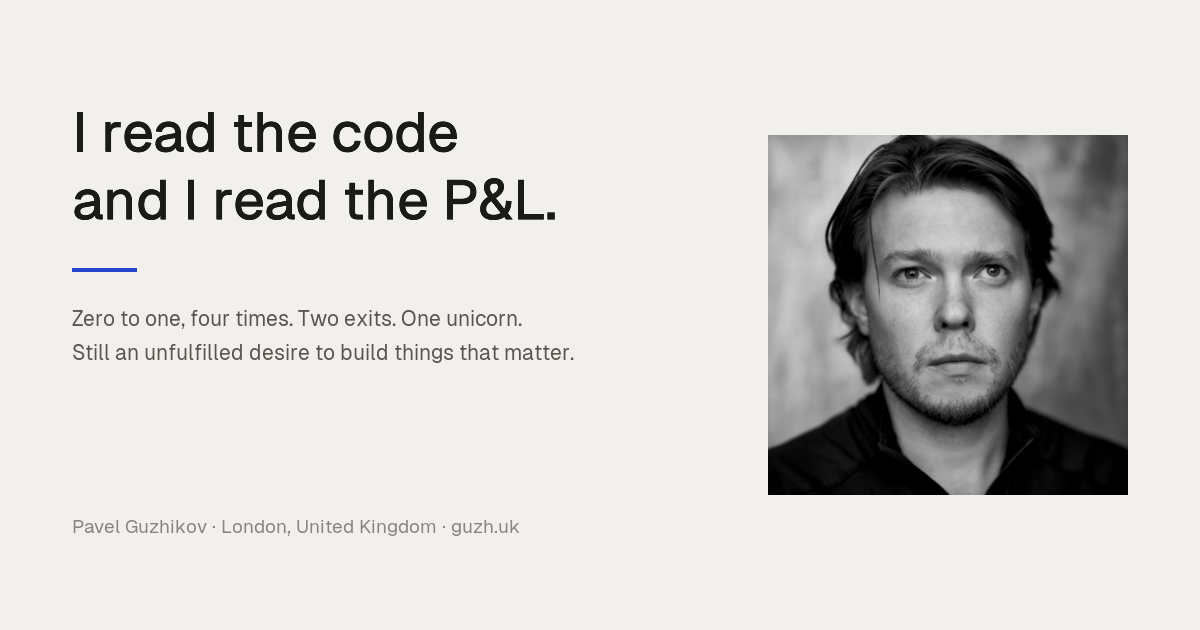
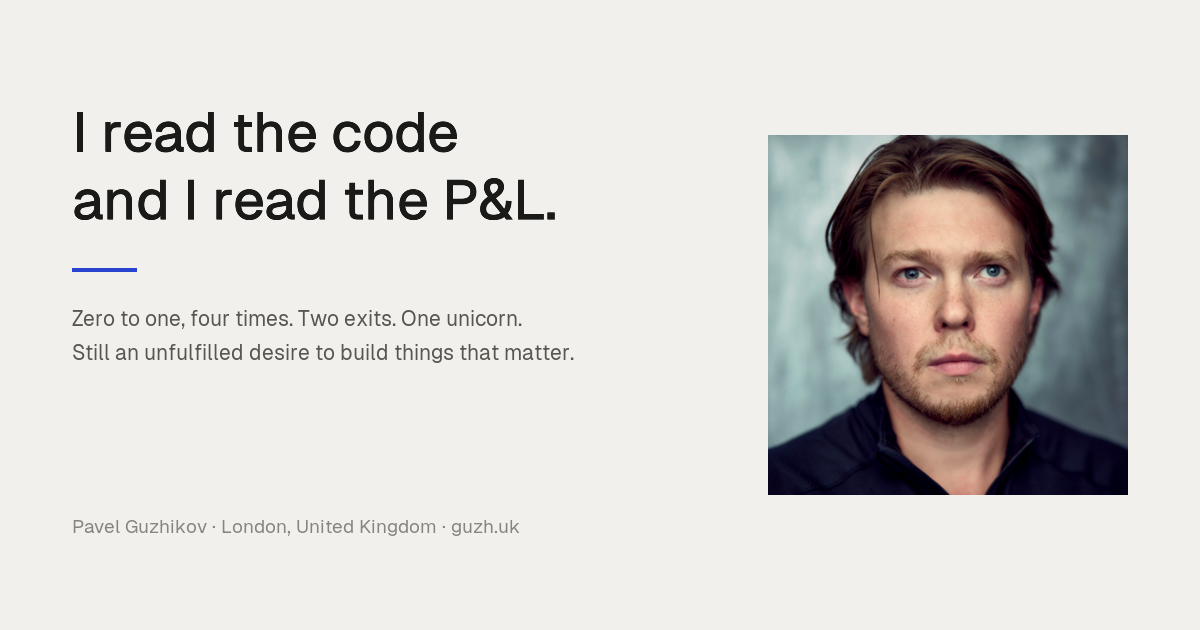
Warm portrait, and a second beat on the scoreboard line
Pavel settled the two open disagreements between the handoff README and the
design prototype, in the prototype's favour on the photo and past both of them
on the copy.

- portrait filter is warm rather than greyscale, and assets/og.png is
  regenerated in colour so the link preview matches the page
- the scoreboard sentence keeps the "only" and gains "Public value is now on
  the same line", which sets up the Now block instead of diluting the first
  three metrics into a longer list
- tools/make-og.sh regenerates the card, so it cannot silently drift from the
  headline or the portrait treatment again; verified pixel-identical to the
  card it replaces

Changed region(s): [[0.6167, 0.2413, 0.9558, 0.7841]]

diff --git a/index.html b/index.html
@@ -97,7 +97,7 @@ img{max-width:100%}
   display:block;width:100%;height:auto;aspect-ratio:1/1;
   object-fit:cover;object-position:50% 50%;
   border-radius:2px;
-  filter:grayscale(1) contrast(1.04);
+  filter:saturate(1.02) contrast(1.02) brightness(1.03);
 }
 
 /* ---------- numbers ---------- */
@@ -183,7 +183,7 @@ img{max-width:100%}
 
         <p class="lead">Zero to one, four times. Two exits. One unicorn. Still an unfulfilled desire to build things that matter.</p>
 
-        <p class="body-copy">Zero-to-one, then scale. Day-one startups to heritage brands. Margin, growth and retention are the only&nbsp;scoreboard I care about.</p>
+        <p class="body-copy">Zero-to-one, then scale. Day-one startups to heritage brands. Margin, growth and retention are the only&nbsp;scoreboard I care about. Public value is now on the same line.</p>
 
         <p class="body-copy">I can hold the product argument, the go-to-market argument and the technical one at the same time — which is what building in a market with no incumbents forces on you. I go to the warehouse and the call centre before I look at the dashboard, because the dashboard is downstream of things nobody wrote down.</p>
 

diff --git a/README.md b/README.md
@@ -21,6 +21,8 @@ assets/
   apple-touch-icon.png  180x180
 robots.txt
 sitemap.xml
+tools/make-og.sh        regenerates assets/og.png — run it if the headline, the lead line
+                        or the portrait treatment changes
 _headers                cache + security headers — used by Netlify and Cloudflare Pages,
                         ignored by GitHub Pages (which cannot set custom headers)
 ```
@@ -110,19 +112,22 @@ redirects as explicitly unsupported, so `https://www.guzh.uk/* … 301!` silentl
 
 Free plan: 10 redirect rules per zone.
 
-## Where this differs from the design snapshot
+## Where this differs from the design handoff
 
-The handoff README and the design prototype disagreed in two places. Both were resolved in favour of
-the handoff README, since it is marked final and was written for this rebuild. Each is a one-line
-change if you want the prototype's version back.
+The handoff README and the design prototype disagreed in two places. Both have since been settled by
+Pavel directly, so the live page is now the authority — not either source document. Recorded here
+because both disagreements will otherwise look like mistakes to anyone reading the handoff later.
 
-1. **Portrait treatment.** The README specifies `grayscale(1) contrast(1.04)`; the prototype's default
-   was `warm` (`saturate(1.02) contrast(1.02) brightness(1.03)`), which is what the old snapshot
-   actually renders. This page is **greyscale**. To go back to colour, change `.portrait img`'s
-   `filter` in `index.html` — and regenerate `assets/og.png`, which is greyscale to match.
-2. **One word of copy.** The README's verbatim copy reads "Margin, growth and retention are the
-   **only** scoreboard I care about." The prototype and snapshot both omit "only". This page
-   includes it.
+1. **Portrait treatment — warm, not greyscale.** The handoff README specified
+   `grayscale(1) contrast(1.04)`; the prototype's default was `warm`. The page uses **warm**
+   (`saturate(1.02) contrast(1.02) brightness(1.03)`), and `assets/og.png` is generated in colour to
+   match. If you change the filter, change it in both places — `.portrait img` in `index.html` and
+   the `-modulate` line in `tools/make-og.sh`, which carries the equivalent for each treatment.
+
+2. **The body copy has moved past both sources.** It now reads: "Margin, growth and retention are
+   the only scoreboard I care about. Public value is now on the same line." That keeps the "only"
+   the prototype had dropped, and adds a second beat that sets up the "Now" block rather than
+   diluting the first three into a longer list. Neither source document has this wording.
 
 ## Notes
 
